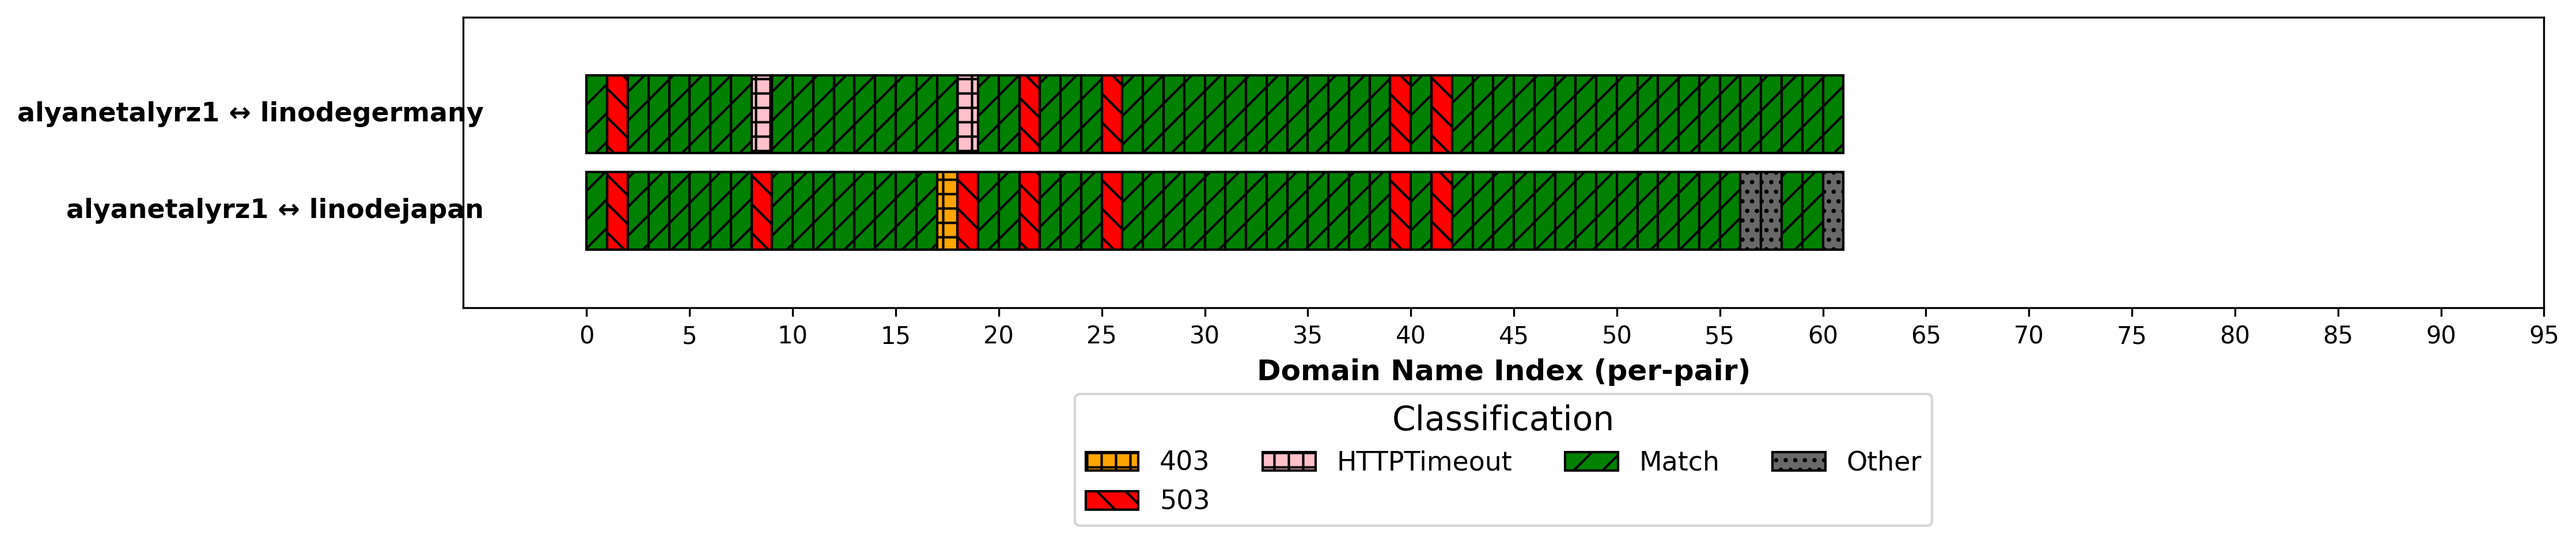
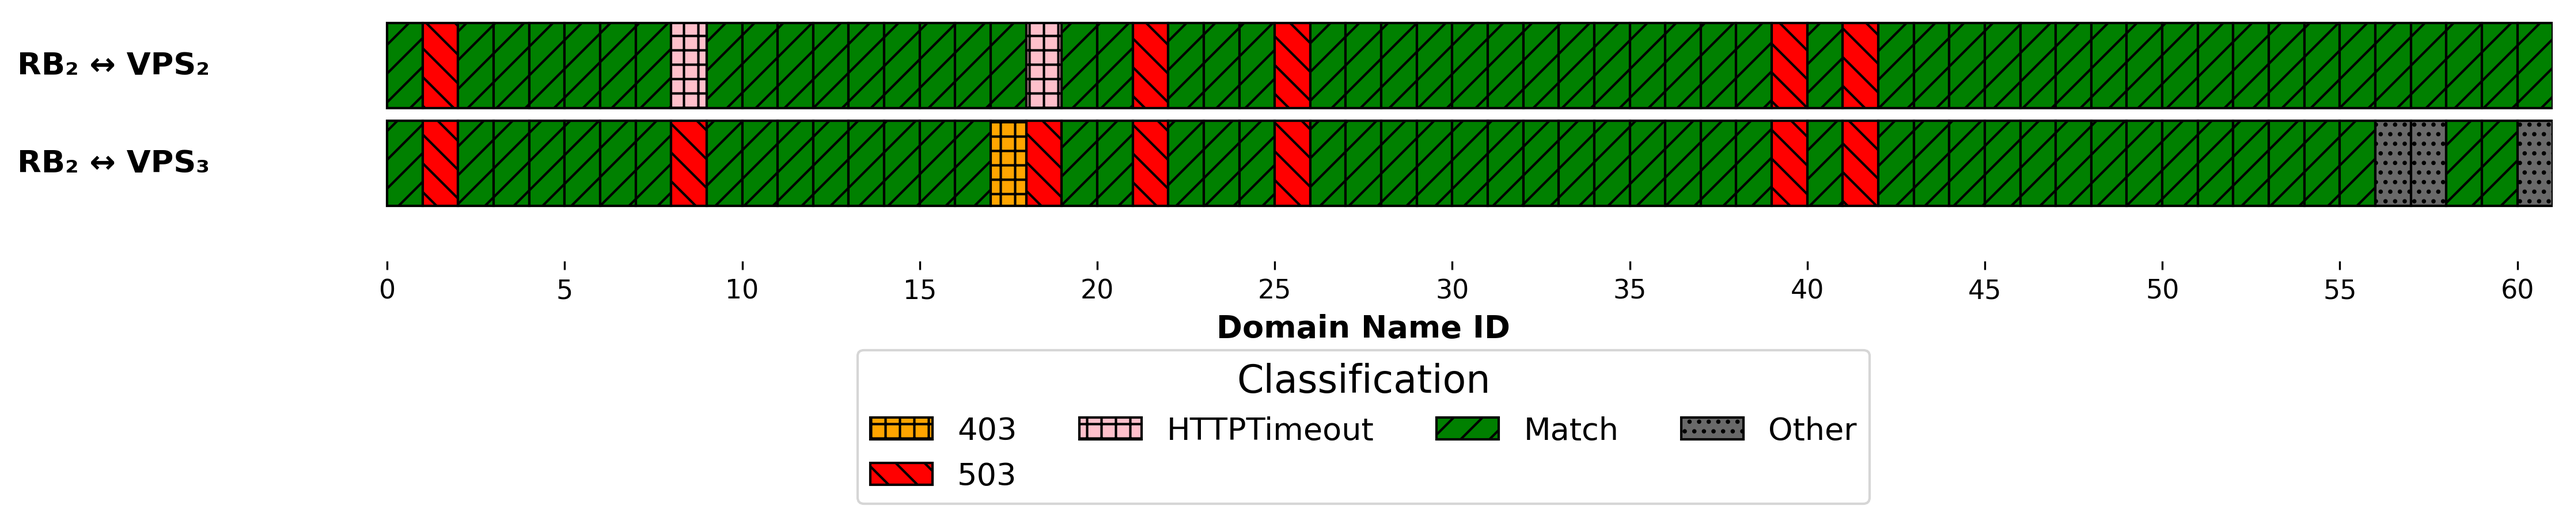
add naming mapping between workers for paper

diff --git a/http_simple_all_workers_conformance.py b/http_simple_all_workers_conformance.py
@@ -3,9 +3,24 @@ import matplotlib.pyplot as plt
 import matplotlib.patches as mpatches
 from collections import defaultdict
 
-# Load data
+# Load classification data
 with open('results.json', 'r') as f:
     data = json.load(f)
+
+# Load naming map
+with open('paper_workers_naming.json', 'r') as f:
+    name_map = json.load(f)
+
+# Unicode subscripts
+subscript_digits = str.maketrans("0123456789", "₀₁₂₃₄₅₆₇₈₉")
+
+def format_worker_name(worker_id):
+    mapped = name_map.get(worker_id, worker_id)
+    if any(char.isdigit() for char in mapped):
+        base = ''.join([c for c in mapped if not c.isdigit()])
+        digits = ''.join([c for c in mapped if c.isdigit()])
+        return base + digits.translate(subscript_digits)
+    return mapped
 
 # Group by worker pairs
 pairwise_data = defaultdict(list)
@@ -13,9 +28,8 @@ for tid, entry in sorted(data.items(), key=lambda x: int(x[0])):  # sort by test
     pair = (entry['worker_1'], entry['worker_2'])
     pairwise_data[pair].append((tid, entry))
 
-# Classify each entry
+# Classify entries
 def classify_entry(entry):
-    # Check top-level failure first
     if entry.get('status') == 'submission_failed':
         return 'SubmissionFailed'
     if entry.get('status') == 'polling_failed':
@@ -64,9 +78,8 @@ def classify_entry(entry):
 
     return 'Other'
 
-# Apply classification and alternate protocol per-pair
+# Apply classification
 classified_by_pair = defaultdict(lambda: {'HTTP': [], 'HTTPS': []})
-
 for pair, entries in pairwise_data.items():
     for i, (tid, entry) in enumerate(entries):
         protocol = 'HTTP' if i % 2 == 0 else 'HTTPS'
@@ -96,14 +109,14 @@ colors = {
     'HTTPTimeout':     'pink',
     'HTTPSTimeout':    'pink',
     'SubmissionFailed':'black',
-    'PollingFailed':  'black',
+    'PollingFailed':   'black',
 }
 
 # Plotting function
 def plot_classification_group(protocol, output_file):
     fig, ax = plt.subplots(figsize=(15, 3.5))
-    y_spacing = 0.5
-    bar_height = 0.4
+    y_spacing = 0.4
+    bar_height = 0.35
 
     all_pairs = sorted(classified_by_pair.keys())
     y_positions = [y_spacing * (len(all_pairs) - i) for i in range(len(all_pairs))]
@@ -113,7 +126,7 @@ def plot_classification_group(protocol, output_file):
     for idx, pair in enumerate(all_pairs):
         y = y_positions[idx]
         test_vector = classified_by_pair[pair][protocol]
-        test_vector.sort()  # Sort by test ID just for consistency
+        test_vector.sort()
         statuses = [status for _, status in test_vector]
         present_statuses.update(statuses)
 
@@ -128,13 +141,16 @@ def plot_classification_group(protocol, output_file):
                 hatch=patterns.get(status, '')
             )
 
+        # Use mapped + subscripted name
+        w1 = format_worker_name(pair[0])
+        w2 = format_worker_name(pair[1])
         ax.text(
             -5, y,
-            f'{pair[0]} ↔ {pair[1]}',
+            f'{w1} ↔ {w2}',
             va='center',
             ha='right',
             fontweight='bold',
-            fontsize=11
+            fontsize=13
         )
 
     # Legend
@@ -145,18 +161,27 @@ def plot_classification_group(protocol, output_file):
     ax.legend(
         handles=legend_handles,
         title="Classification",
-        title_fontsize=14,
-        fontsize=11,
+        title_fontsize=16,
+        fontsize=13,
         loc='upper center',
-        bbox_to_anchor=(0.5, -0.25),
-        ncol=4
+        bbox_to_anchor=(0.5, -0.3),
+        ncol=4,
+        frameon=True
     )
 
     # Axes formatting
-    ax.set_xlim(-6, max(10, max(len(v[protocol]) for v in classified_by_pair.values())))
-    ax.set_ylim(0, y_spacing * len(all_pairs) + 0.5)
-    ax.set_xticks(range(0, 100, 5))
-    ax.set_xlabel('Domain Name Index (per-pair)', fontsize=12, fontweight='bold')
+    max_len = max(len(v[protocol]) for v in classified_by_pair.values())
+    ax.set_xlim(-6, max(10, max_len))
+    ax.set_ylim(0, y_spacing * len(all_pairs) + 0.2)
+    xtick_positions = list(range(0, max_len + 1, 5))
+    ax.set_xticks(xtick_positions)
+    ax.set_xticklabels([str(i) for i in xtick_positions], fontsize=11)
+
+    ax.set_xlabel('Domain Name ID', fontsize=13, fontweight='bold')
+
+    # Hide spines and y-axis details
+    for spine in ['top', 'right', 'left', 'bottom']:
+        ax.spines[spine].set_visible(False)
     ax.tick_params(axis='y', which='both', left=False, labelleft=False)
 
     plt.tight_layout()
